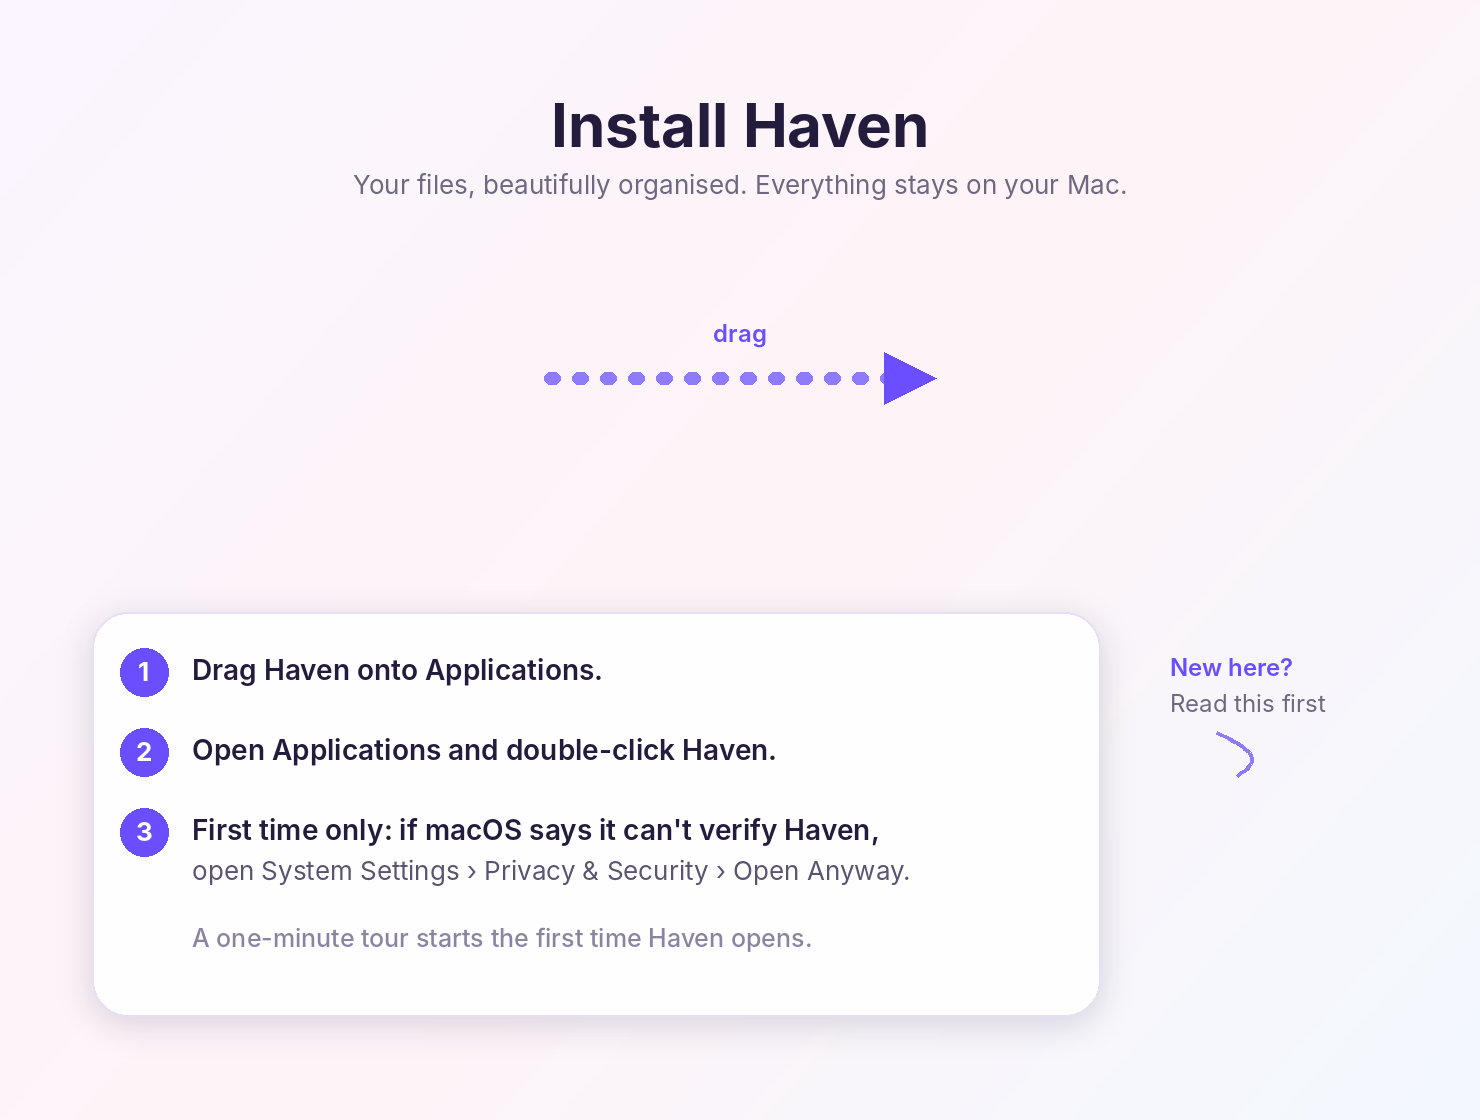
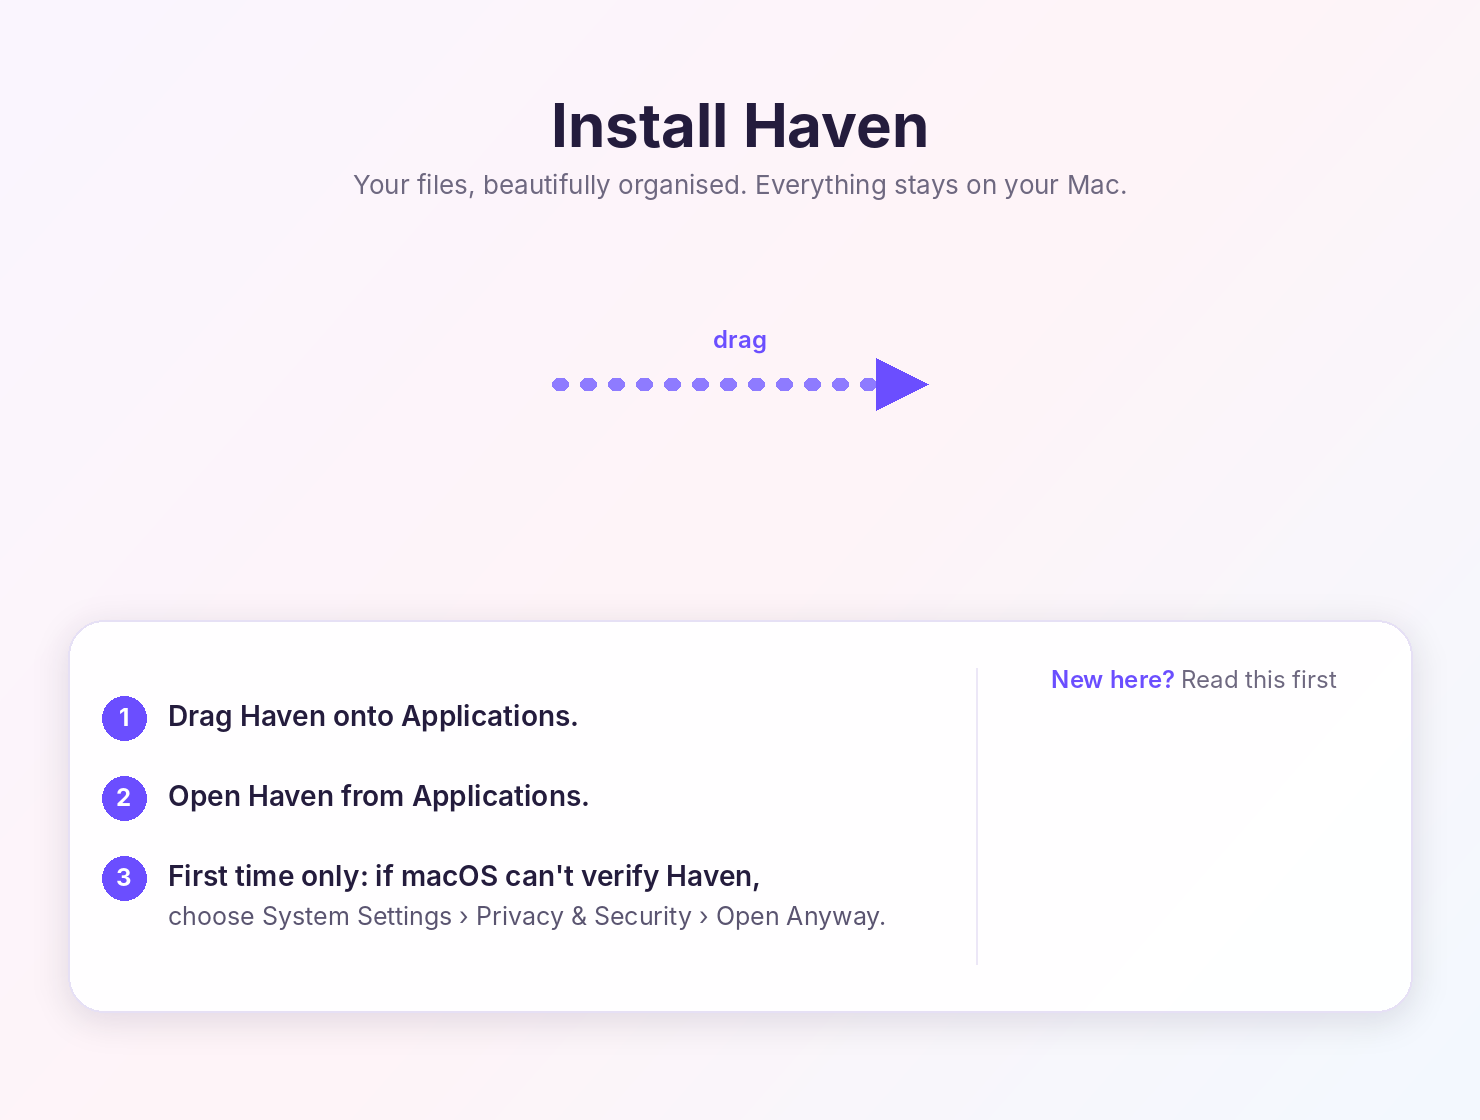
Calmer installer window: steps and the guide share one card; hidden files parked out of view
Claude-Session: https://claude.ai/code/session_0187ffbHPcgixQh4Kyu8G2Qs

diff --git a/packaging/make_art.py b/packaging/make_art.py
@@ -61,9 +61,9 @@ def content(scale):
     sw = d.textlength(sub, font=f2)
     d.text(((w - sw) / 2, 70 * s), sub, font=f2, fill=hexrgb(0x6E6880))
 
-    # Arrow from the app (x=180) to Applications (x=540) at y=175.
-    y = 175 * s
-    x0, x1 = 262 * s, 458 * s
+    # Arrow from the app (x=190) to Applications (x=530) at y=178 (icons are 100 pt).
+    y = 178 * s
+    x0, x1 = 266 * s, 454 * s
     for i in range(int(x0), int(x1 - 26 * s), int(14 * s)):
         d.rounded_rectangle([i, y - 3 * s, i + 8 * s, y + 3 * s], radius=3 * s, fill=hexrgb(0x8E7BFF))
     d.polygon([(x1 - 26 * s, y - 13 * s), (x1, y), (x1 - 26 * s, y + 13 * s)], fill=hexrgb(0x6B4EFF))
@@ -72,48 +72,48 @@ def content(scale):
     lw = d.textlength(lab, font=fl)
     d.text(((x0 + x1) / 2 - lw / 2, y - 30 * s), lab, font=fl, fill=hexrgb(0x6B4EFF))
 
-    # Steps card
-    card = [36 * s, 292 * s, 540 * s, 494 * s]
+    # One card: the steps on the left, the guide (Finder draws its icon at 587, 396) on the right.
+    card = [24 * s, 296 * s, 696 * s, 492 * s]
+    divider = 478 * s
     shadow = Image.new("RGBA", (w, h), (0, 0, 0, 0))
-    ImageDraw.Draw(shadow).rounded_rectangle([card[0], card[1] + 4 * s, card[2], card[3] + 4 * s], radius=18 * s, fill=(60, 40, 120, 40))
+    ImageDraw.Draw(shadow).rounded_rectangle([card[0], card[1] + 4 * s, card[2], card[3] + 4 * s], radius=18 * s, fill=(60, 40, 120, 34))
     shadow = shadow.filter(ImageFilter.GaussianBlur(8 * s))
     img = Image.alpha_composite(img, shadow)
     d = ImageDraw.Draw(img)
-    d.rounded_rectangle(card, radius=18 * s, fill=(255, 255, 255, 235), outline=hexrgb(0xE6E0F5), width=max(1, s))
+    d.rounded_rectangle(card, radius=18 * s, fill=(255, 255, 255, 240), outline=hexrgb(0xE6E0F5), width=max(1, s))
+    d.line([(divider, 320 * s), (divider, 468 * s)], fill=hexrgb(0xECE7F7), width=max(1, s))
 
     steps = [
         ("1", "Drag Haven onto Applications.", None),
-        ("2", "Open Applications and double-click Haven.", None),
-        ("3", "First time only: if macOS says it can't verify Haven,",
-         "open System Settings › Privacy & Security › Open Anyway."),
+        ("2", "Open Haven from Applications.", None),
+        ("3", "First time only: if macOS can't verify Haven,",
+         "choose System Settings › Privacy & Security › Open Anyway."),
     ]
-    sy = 312 * s
+    sy = 335 * s
     fb = font("SemiBold", 14 * s)
-    fr = font("Regular", 13 * s)
+    fr = font("Regular", 12.5 * s)
+    fn = font("Bold", 12 * s)
     for num, line, extra in steps:
-        cx, cy, r = 62 * s, sy + 10 * s, 12 * s
+        cx, cy, r = 52 * s, sy + 10 * s, 11 * s
         d.ellipse([cx - r, cy - r, cx + r, cy + r], fill=hexrgb(0x6B4EFF))
-        nw = d.textlength(num, font=font("Bold", 13 * s))
-        d.text((cx - nw / 2, cy - 8.5 * s), num, font=font("Bold", 13 * s), fill=(255, 255, 255, 255))
-        d.text((86 * s, sy), line, font=fb, fill=hexrgb(0x241C3D))
+        nw = d.textlength(num, font=fn)
+        d.text((cx - nw / 2, cy - 8 * s), num, font=fn, fill=(255, 255, 255, 255))
+        d.text((74 * s, sy), line, font=fb, fill=hexrgb(0x241C3D))
+        assert 74 * s + d.textlength(line, font=fb) < divider - 12 * s, line
         if extra:
-            d.text((86 * s, sy + 21 * s), extra, font=fr, fill=hexrgb(0x5A5470))
+            d.text((74 * s, sy + 21 * s), extra, font=fr, fill=hexrgb(0x5A5470))
+            assert 74 * s + d.textlength(extra, font=fr) < divider - 12 * s, extra
             sy += 21 * s
         sy += 40 * s
-    d.text((86 * s, sy - 6 * s), "A one-minute tour starts the first time Haven opens.", font=font("Medium", 12.5 * s), fill=hexrgb(0x8A84A0))
 
-    # Hint pointing at the guide (icon sits at 620, 400).
-    hint = "New here?"
-    hint2 = "Read this first"
-    fh = font("SemiBold", 12 * s)
-    d.text((575 * s, 312 * s), hint, font=fh, fill=hexrgb(0x6B4EFF))
-    d.text((575 * s, 330 * s), hint2, font=font("Regular", 12 * s), fill=hexrgb(0x6E6880))
-    # little curved arrow down to the icon
-    pts = []
-    for i in range(20):
-        t = i / 19
-        pts.append(((598 + 18 * math.sin(t * math.pi * 0.8)) * s, (352 + 22 * t) * s))
-    d.line(pts, fill=hexrgb(0x8E7BFF), width=int(2 * s))
+    # Caption over the guide's icon.
+    cx = (divider + card[2]) / 2
+    a, b = "New here? ", "Read this first"
+    fa, fb2 = font("SemiBold", 12 * s), font("Regular", 12 * s)
+    total = d.textlength(a, font=fa) + d.textlength(b, font=fb2)
+    left = cx - total / 2
+    d.text((left, 318 * s), a, font=fa, fill=hexrgb(0x6B4EFF))
+    d.text((left + d.textlength(a, font=fa), 318 * s), b, font=fb2, fill=hexrgb(0x6E6880))
     return img
 
 

diff --git a/packaging/dmg_settings.py b/packaging/dmg_settings.py
@@ -35,10 +35,17 @@ grid_spacing = 100
 scroll_position = (0, 0)
 label_pos = "bottom"
 text_size = 13
-icon_size = 112
+icon_size = 100
 
+# Window positions = the art's 720×520 grid + (10, 14). Hidden files (the background picture, the disk
+# icon, macOS bookkeeping) are parked far below the window, so they stay out of sight even for people who
+# show hidden files in Finder (⌘⇧.).
 icon_locations = {
-    appname: (190, 189),
-    "Applications": (550, 189),
-    readmename: (630, 419),
+    appname: (200, 192),
+    "Applications": (540, 192),
+    readmename: (597, 410),
+    ".background.tiff": (120, 1400),
+    ".VolumeIcon.icns": (260, 1400),
+    ".fseventsd": (400, 1400),
+    ".Trashes": (540, 1400),
 }
